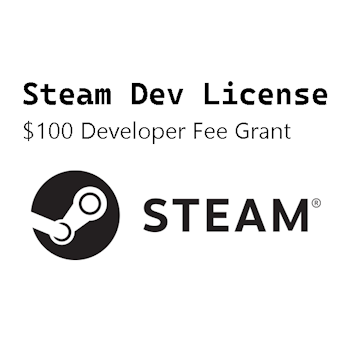
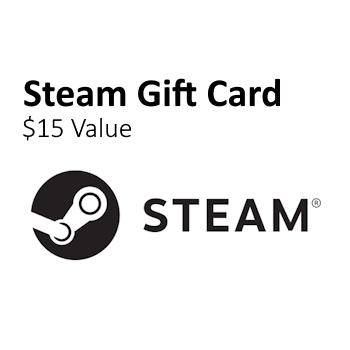
Move around prizes even more to minimize risk of debt

Changed region(s): [[0.0571, 0.2286, 0.9429, 0.3143], [0.0571, 0.3429, 0.8286, 0.4]]

diff --git a/app/assets/stylesheets/application.css b/app/assets/stylesheets/application.css
@@ -1080,12 +1080,12 @@ h2 {
 
 #map-marker-1 {
     left: calc(var(--w_factor) * 244);
-    top: calc(var(--w_factor) * 56);
+    top: calc(var(--w_factor) * 46);
 }
 
 #map-marker-2 {
-    left: calc(var(--w_factor) * 503);
-    top: calc(var(--w_factor) * 346);
+    left: calc(var(--w_factor) * 467);
+    top: calc(var(--w_factor) * 321);
 }
 
 #map-marker-3 {

diff --git a/app/controllers/application_controller.rb b/app/controllers/application_controller.rb
@@ -2,7 +2,7 @@ require "net/http"
 require "json"
 
 def return_islands
-  return [6,12,26,50]
+  return [5,12,26,50]
 end
 def ysws_start
   date = "2026-08-12"
@@ -181,16 +181,17 @@ class ApplicationController < ActionController::Base
     def get_prices
       @prices = [
         {
+          "pico8":{"name":"Pico-8"},
+          "pipico":{"name":"Pi Pico"},
+          "steam":{"name":"$15 Steam Gift Card"},
+          "cloudflare":{"name":"$15 Domain Grant"},
+        },
+      
+        {
           "blahaj":{"name":"Blåhaj"},
           "pinecil":{"name":"Pinecil"},
           "ch341a":{"name":"CH341A Programmer"},
           "cardputer":{"name":"Cardputer (Adv)"},
-        },
-      
-        {
-          "pico8":{"name":"Pico-8"},
-          "pipico":{"name":"Pi Pico"},
-          "cloudflare":{"name":"$12 Domain Grant"},
         },
       
         {
